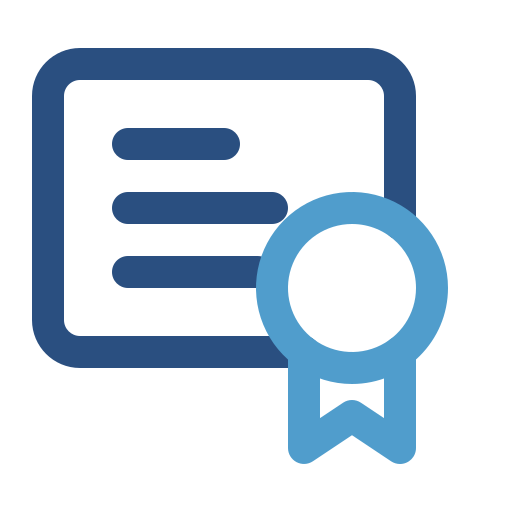
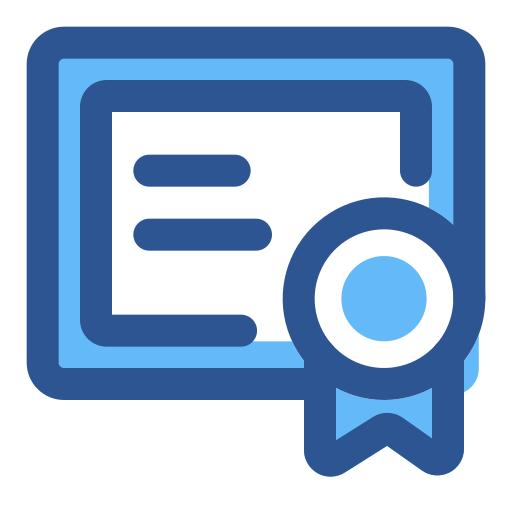
Ajustes Front

diff --git a/src/App.js b/src/App.js
@@ -5,7 +5,6 @@ import NavbarEstudiante from './components/NavbarEstudiante';
 import NavbarAdmin from './components/navbaradmin';
 import Pasantias from './views/pasantias';
 import Perfil from './views/perfil';
-import Perfil2 from './views/perfil';
 import CarouselSection from './components/CarouselSection';
 import DocenteSection from './components/DocenteSection';
 import Footer from './components/Footer';
@@ -198,13 +197,13 @@ function App() {
               </>
             }
           />
-        {/* Ruta para la página de Perfil */}
+          {/* Ruta para la página de Perfil */}
           <Route path="/perfil" element={
-          <>
-          <NavbarAdmin darkMode={darkMode} handleThemeChange={handleThemeChange}/> {/* NavbarAdmin */}
-            <Perfil /> {/* Componente que renderiza la vista de pasantías */}
-          </>
-        } />
+            <>
+              <NavbarAdmin darkMode={darkMode} handleThemeChange={handleThemeChange}/> {/* NavbarAdmin */}
+              <Perfil /> {/* Componente que renderiza la vista de pasantías */}
+            </>
+          }/>
 
         {/* Página de estudiante */}
         <Route
@@ -249,14 +248,6 @@ function App() {
               </>
             }
           />
-          {/* Ruta para la página de Perfil */}
-          <Route path="/perfil" element={
-          <>
-            <NavbarEstudiante darkMode={darkMode} handleThemeChange={handleThemeChange}/> {/* NavbarAdmin */}
-            <Perfil2 /> {/* Componente que renderiza la vista de pasantías */}
-          </>
-        } />
-
          {/* Página de estudiante de intercambio */}
          <Route
             path="/IntercambioPage"

diff --git a/src/components/DocenteSection.js b/src/components/DocenteSection.js
@@ -99,7 +99,7 @@ const DocenteSection = () => {
   };
 
   return (
-    <div style={{ marginTop: '20px' }} ref={ref}>
+    <div style={{ marginTop: '20px'}} align="center" ref={ref}>
       <Typography variant="h4" gutterBottom align="center">
         Nuestros Docentes
       </Typography>
